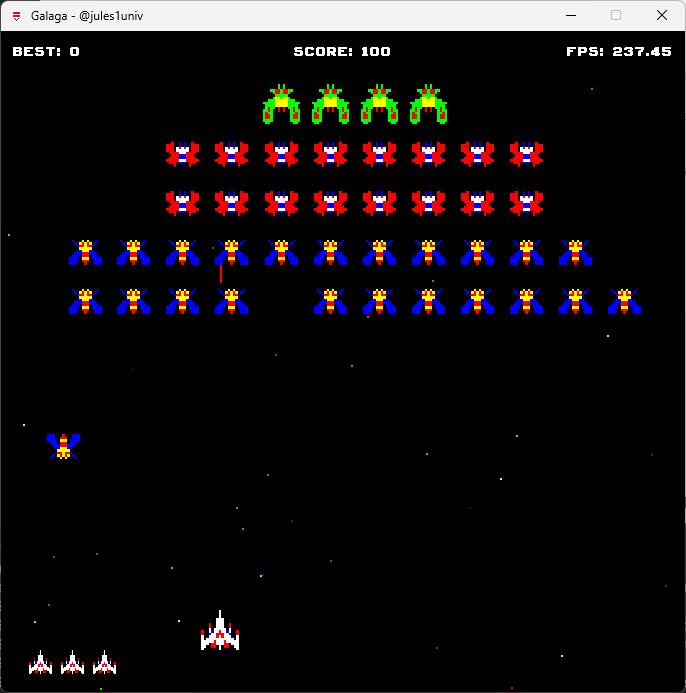
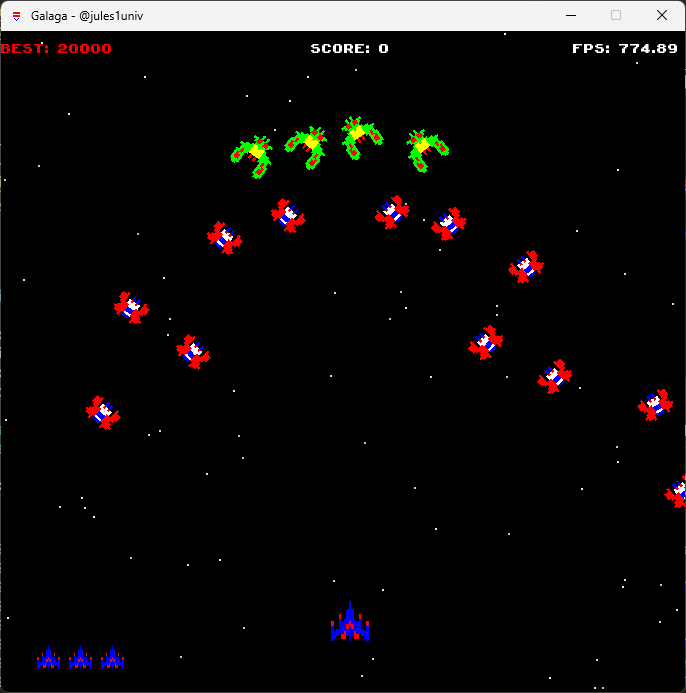
update readme & preview

diff --git a/README.md b/README.md
@@ -2,29 +2,33 @@
 
 ![C](https://img.shields.io/github/languages/top/jules1univ/Galaga?label=Java%20🔥) ![Platform](https://img.shields.io/badge/Platform%20🌍-Windows%20|%20Linux%20|%20MacOS-purple) ![Game](https://img.shields.io/badge/Game%20🎮-Galaga-green)
 
-**Concept**: A simple yet engaging Galaga clone written in Java. This project is a tribute to the classic arcade game, bringing its charm to modern platforms.
-
 > Preview 🎥
+
+
+![demo](./.github/preview/game_demo.gif)
 
 |                                              |                                             |
 | -------------------------------------------- | ------------------------------------------- |
-| ![image 0](./.github/preview/game_begin.png) | ![image 1](./.github/preview/game_play.png) |
-
-
-## 🚀 Project Insight
-
-- **Classic Gameplay**: Relive the thrill of space battles with waves of enemies.
-- **Modern Enhancements**: Smooth animations, responsive controls, and scalable graphics.
-- **Cross-Platform Compatibility**: Java-based, runs seamlessly on Windows, Linux, and MacOS.
+| ![image 0](./.github/preview/game_menu.png) | ![image 1](./.github/preview/game_play.png) |
 
 
 ## 🛠 Features
 
 - **Player Mechanics**: Control your spaceship, shoot bullets, and dodge enemies.
-- **Enemy Types**: Multiple enemy behaviors, including bees, butterflies, and moths.
-- **Level Progression**: Advance through increasingly challenging levels.
+- **Enemy Types**: 
+    - Bees: Move in zig-zag patterns.
+    - Butterflies: Move straight downwards.
+    - Moths: Follow the player and trys to capture it.
+    - **Bosses**: Not implemented yet.
+- **Level Progression**: 
+    - **Default Levels**: Predefined levels with increasing difficulty.
+        - Level 1: Basic enemy waves.
+        - Level 2: Increased enemy speed and frequency and intoduction of Moth enemies.
+        - Level 3: Introduction of Boss enemies.
+    - **Custom Levels**: Create and load your own levels.
+- **Ship Skins**: Choose from various spaceship designs.
+- **Sound Effects**: Original sound effects from the classic game.
 - **High Scores**: Track and beat your best scores.
-- **Custom Resources**: Includes sprites, fonts, and levels for a tailored experience.
 
 
 ## 🤝 Get Involved
